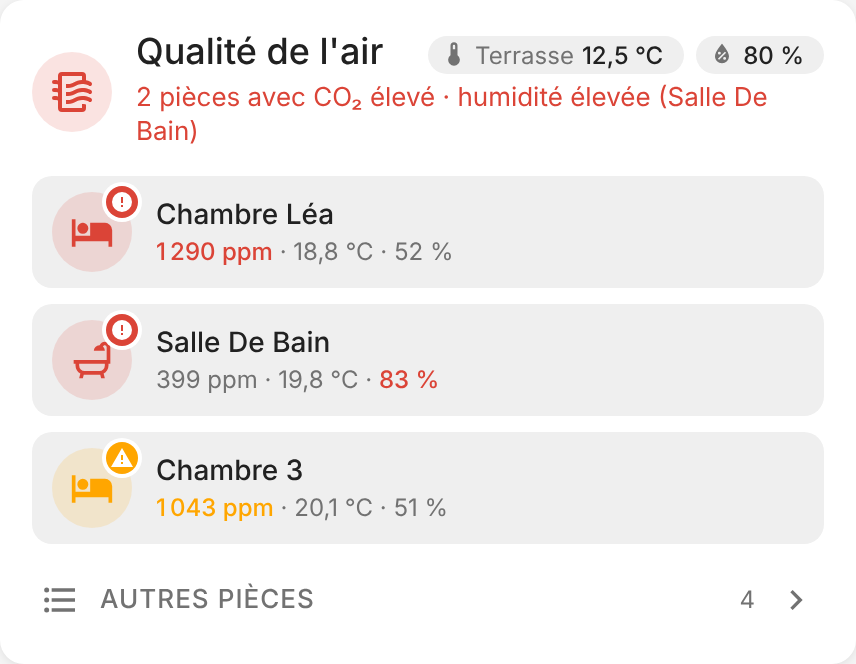
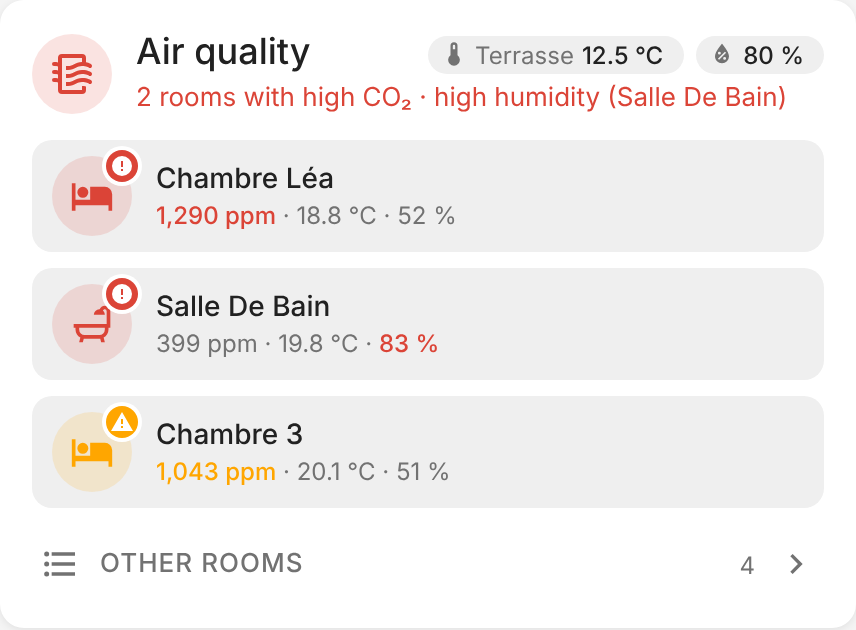
Require Home Assistant 2024.8, English screenshots (1.2.1) (#4)
Claude-Session: https://claude.ai/code/session_01FyVHJkuQopwM66ytqwsrgB

diff --git a/README.md b/README.md
@@ -34,7 +34,7 @@ Add the card, it finds the rooms by itself from your areas.
 
 ## Prerequisites
 
-- Home Assistant with CO₂, temperature or humidity sensors (Netatmo, Airthings, Aqara, ESPHome…)
+- Home Assistant 2024.8 or later with CO₂, temperature or humidity sensors (Netatmo, Airthings, Aqara, ESPHome…)
 - Areas set on the sensors or their devices, for the automatic discovery; otherwise list the rooms by hand
 
 ## Installation

diff --git a/CHANGELOG.md b/CHANGELOG.md
@@ -1,5 +1,11 @@
 # Changelog
 
+## 1.2.1
+
+### Changes
+- HACS now asks for Home Assistant 2024.8 or later, the version that brought the sections view the card supports; the README says so under **Prerequisites**.
+- The light README screenshots are in English, the dark ones in French.
+
 ## 1.2.0
 
 ### Changes
